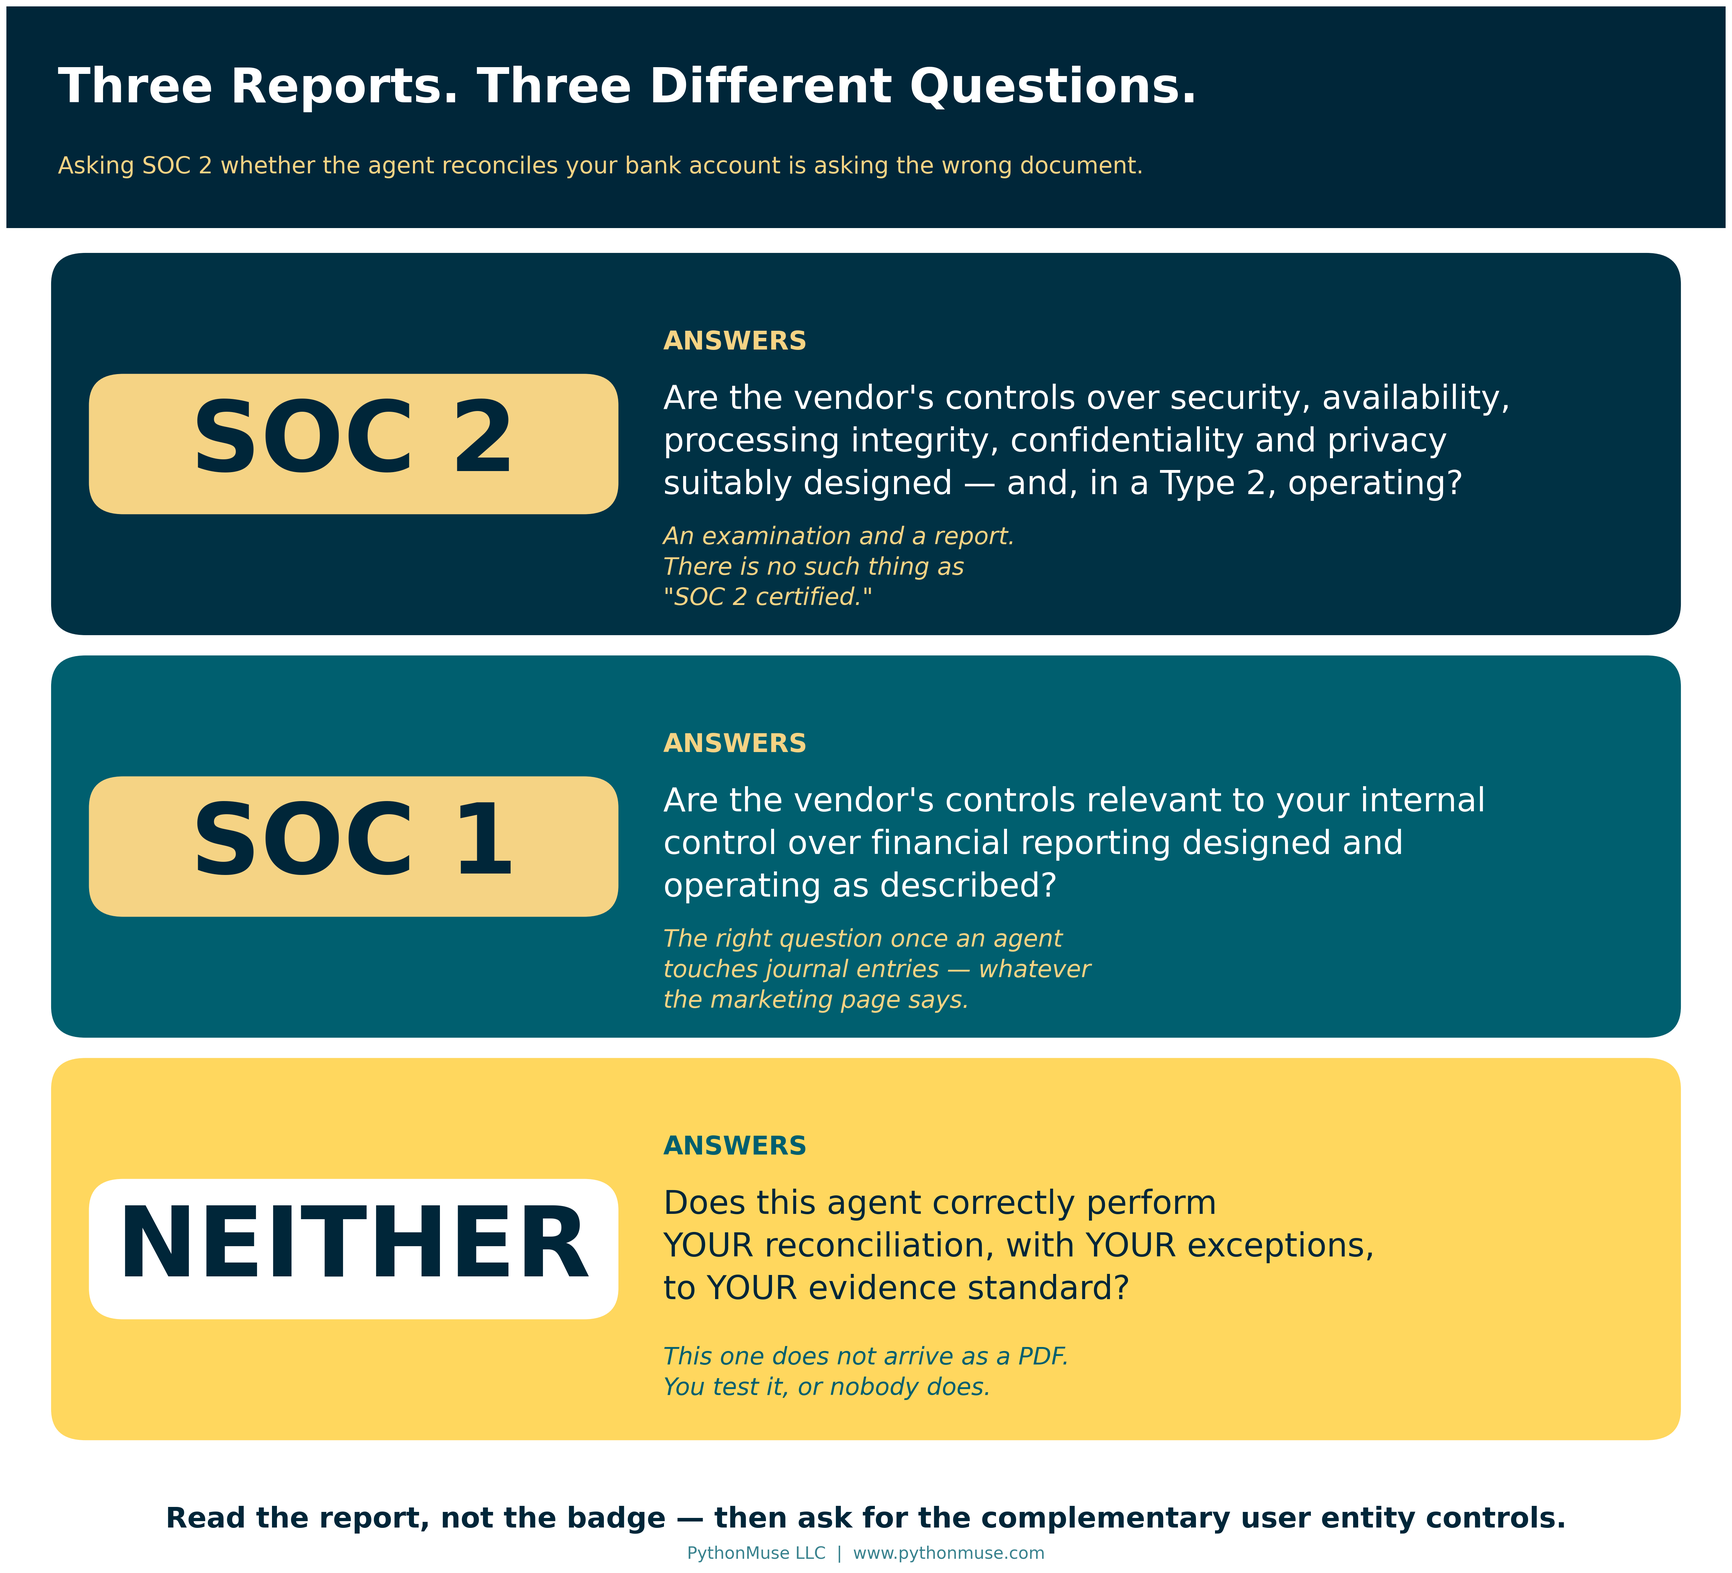
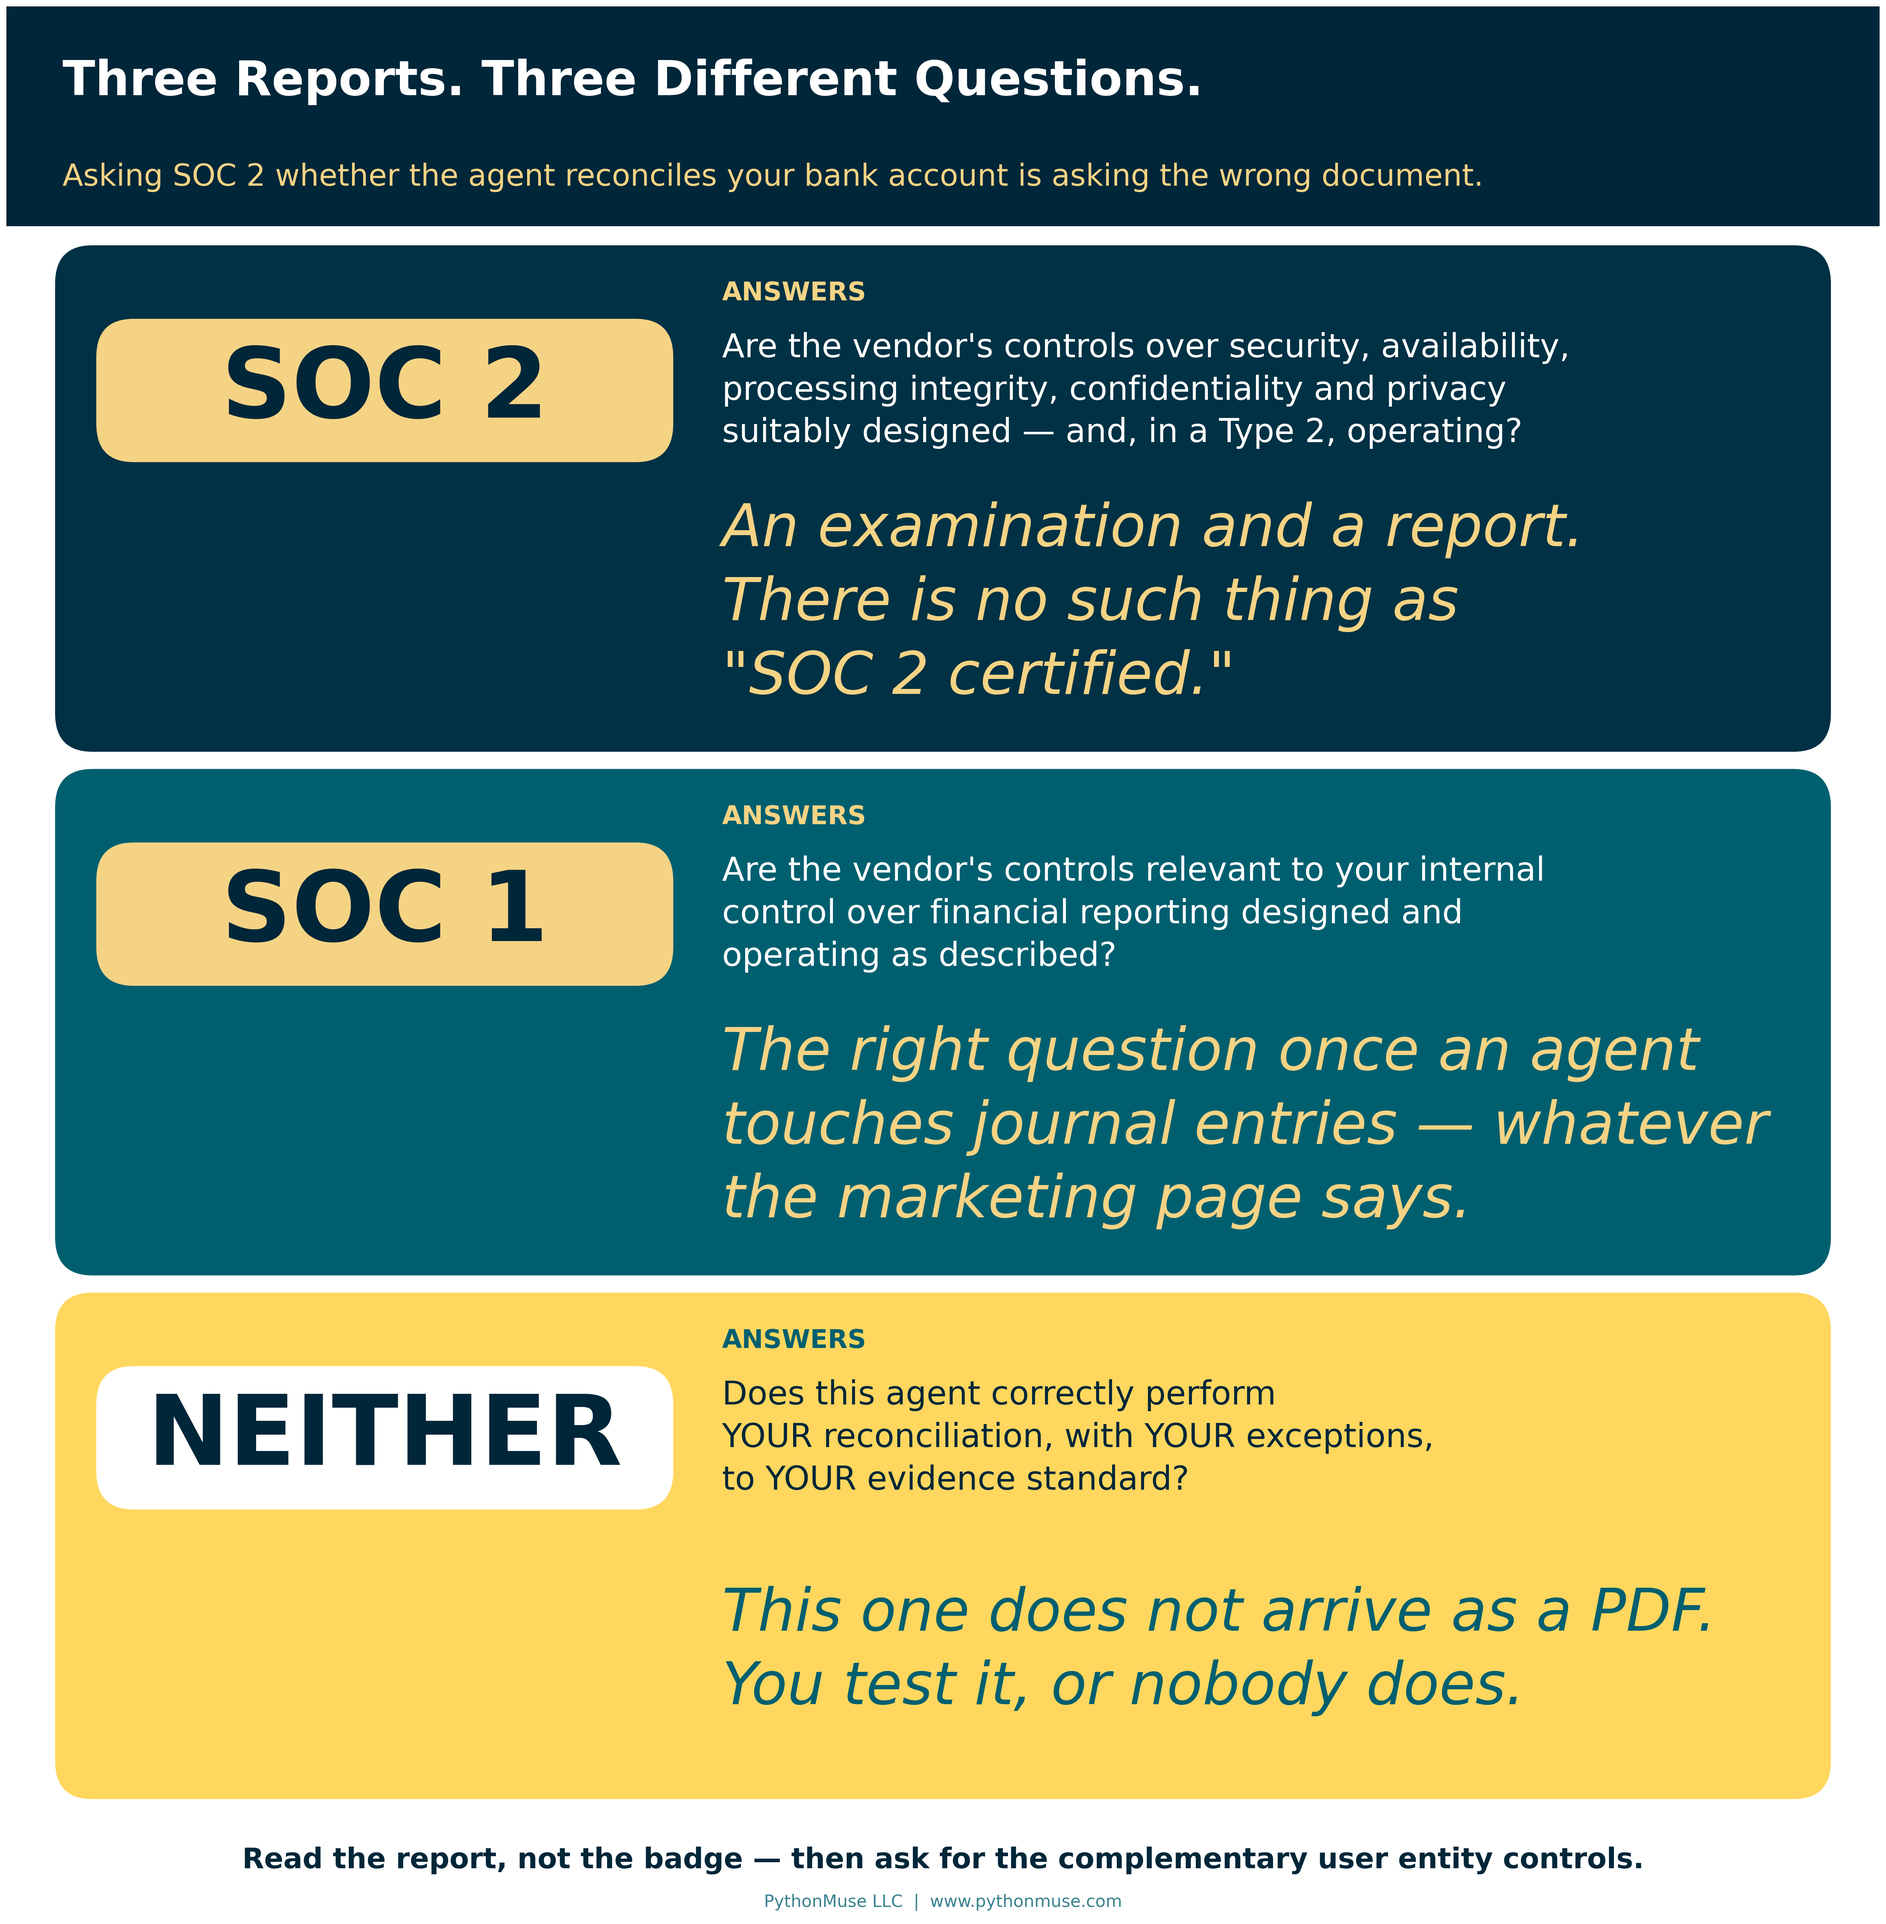
Enlarge the note/subtitle text in 39_soc_scope.png -- wrong element last time
The previous pass enlarged the chip and body text but left alone the
actual lines that were called out: the header subtitle and the italic
note under each card's body paragraph (the punchline -- "There is no such
thing as 'SOC 2 certified,'" "You test it, or nobody does"). Those are the
smallest, most caption-like text in the visual and are what needed the 3x
treatment.

- Note fontsize: 22 -> 54 design (3x the article's original 18pt
  baseline; final render triples from 27pt to 66pt).
- Header subtitle: 21 -> 28 design. Not a literal 3x -- tripling it would
  put it at 63, larger than the 44pt title sitting above it in the same
  bar, which is its own visible bug. Flagging this deviation rather than
  applying it silently.
- Rebuilt the card's vertical layout around the note block instead of
  around the old, much smaller one: verb/body/chip keep their previous
  grouping in the upper portion of a taller card, and the now-dominant
  note gets the lower share on its own.
- Widened the canvas after the first render showed "touches journal
  entries -- whatever" running flush against the card edge on the SOC 1
  card -- confirmed fixed with margin on the second render.

Changed region(s): [[0.0, 0.0312, 0.9971, 0.9973], [0.8413, 0.8103, 0.9036, 0.8415]]

diff --git a/articles/39-buy-platform-own-accounting-logic/generate_visuals.py b/articles/39-buy-platform-own-accounting-logic/generate_visuals.py
@@ -280,29 +280,43 @@ def make_soc_scope():
     # it was badly under-filling its box (~16% of box height) at the old
     # fontsize=30. Tripling it to 90 brings the fill ratio to the ~50-65%
     # SKILL.md target, so it now reads as a real badge instead of a caption.
-    # Canvas grows in both dimensions -- taller to give the row's now-larger
-    # body/verb/note text room without cramming the card, wider so the much
-    # wider chip box doesn't eat into the body-text column and start
-    # wrapping its pre-broken lines. Header height is pulled back from 0.152
-    # to 0.133 so its absolute size doesn't balloon just because the canvas
-    # underneath it grew -- the header wasn't part of what needed enlarging.
-    fig, ax = blank_axes(canvas(22.0, 20.0))
+    #
+    # The italic note under each body paragraph -- the quotable punchline
+    # ("There is no such thing as 'SOC 2 certified.'", "You test it, or
+    # nobody does.") -- and the header subtitle are the actual "context"
+    # text that needed the 3x treatment; an earlier pass enlarged the chip
+    # and body instead and left these alone. Note fontsize triples from the
+    # article's original 18pt baseline to 54 (up from this file's
+    # intermediate 22). The header subtitle gets a real but smaller bump
+    # (21 -> 28) -- tripling it too would put it at 63, larger than the
+    # 44pt title above it, which is its own kind of broken.
+    #
+    # Because the note block is now the tallest thing in the card, the
+    # vertical stack is rebuilt around it instead of the other way around:
+    # verb + body + chip keep their old relative grouping in the upper
+    # portion of a taller card, and the note gets its own, much larger
+    # share of the card below them. Canvas grows to give all of this room
+    # without touching a single coordinate in the other five visuals.
+    fig, ax = blank_axes(canvas(24.0, 24.5))
     add_header_bar(fig, "Three Reports. Three Different Questions.",
                    "Asking SOC 2 whether the agent reconciles your bank account is asking the wrong document.",
-                   height=0.142, title_size=44, subtitle_size=21, brand=False)
+                   height=0.115, title_size=44, subtitle_size=28, brand=False)
 
-    top = 0.838
-    card_h = 0.237
-    gap = 0.021
+    top = 0.871
+    card_h = 0.257
+    gap = 0.017
     x, w = 0.03, 0.94
 
-    # Chip width is sized for "NEITHER" (the longest label) at the new 90pt
-    # design size with real side padding. Chip height barely needs to grow
-    # at all -- the box was already generously tall; it was the text inside
-    # it that was too small -- so it only grows enough to keep centering
-    # clean against the taller card.
+    # Chip width/height are unchanged from the previous pass -- they were
+    # already sized correctly for "NEITHER" at fontsize=90 and didn't need
+    # to move just because the card got taller underneath them.
     chip_w = 0.30
-    chip_h = 0.082
+    chip_h = 0.067
+
+    # Vertical anchors as fractions of card_h, top to bottom: verb, then
+    # body (chip aligns with body), then a gap, then the much taller note
+    # block gets the bottom share of the card.
+    verb_y, body_y, note_y = 0.918, 0.720, 0.286
 
     for i, (name, fill, verb, body, note) in enumerate(SOC_PANELS):
         y = top - i * (card_h + gap) - card_h
@@ -314,17 +328,17 @@ def make_soc_scope():
         body_col = DEEP_NAVY if fill in LIGHT_FILLS else WHITE
 
         chip_fill = WHITE if fill in LIGHT_FILLS else WARM_GLOW
-        rounded_box(ax, (x + 0.022, y + card_h / 2 - chip_h / 2), chip_w, chip_h,
+        rounded_box(ax, (x + 0.022, y + card_h * body_y - chip_h / 2), chip_w, chip_h,
                     chip_fill, text_color=DEEP_NAVY, text=name, fontsize=90)
 
         text_left = x + 0.022 + chip_w + 0.030
-        ax.text(text_left, y + card_h * 0.775, verb, fontsize=pt(24),
+        ax.text(text_left, y + card_h * verb_y, verb, fontsize=pt(24),
                 fontweight="bold", color=note_col, ha="left", va="center",
                 zorder=4)
-        ax.text(text_left, y + card_h * 0.505, body, fontsize=pt(30),
+        ax.text(text_left, y + card_h * body_y, body, fontsize=pt(30),
                 color=body_col, ha="left", va="center", zorder=4,
                 linespacing=1.42)
-        ax.text(text_left, y + card_h * 0.165, note, fontsize=pt(22),
+        ax.text(text_left, y + card_h * note_y, note, fontsize=pt(54),
                 color=note_col, ha="left", va="center", zorder=4,
                 style="italic", linespacing=1.38)
 
